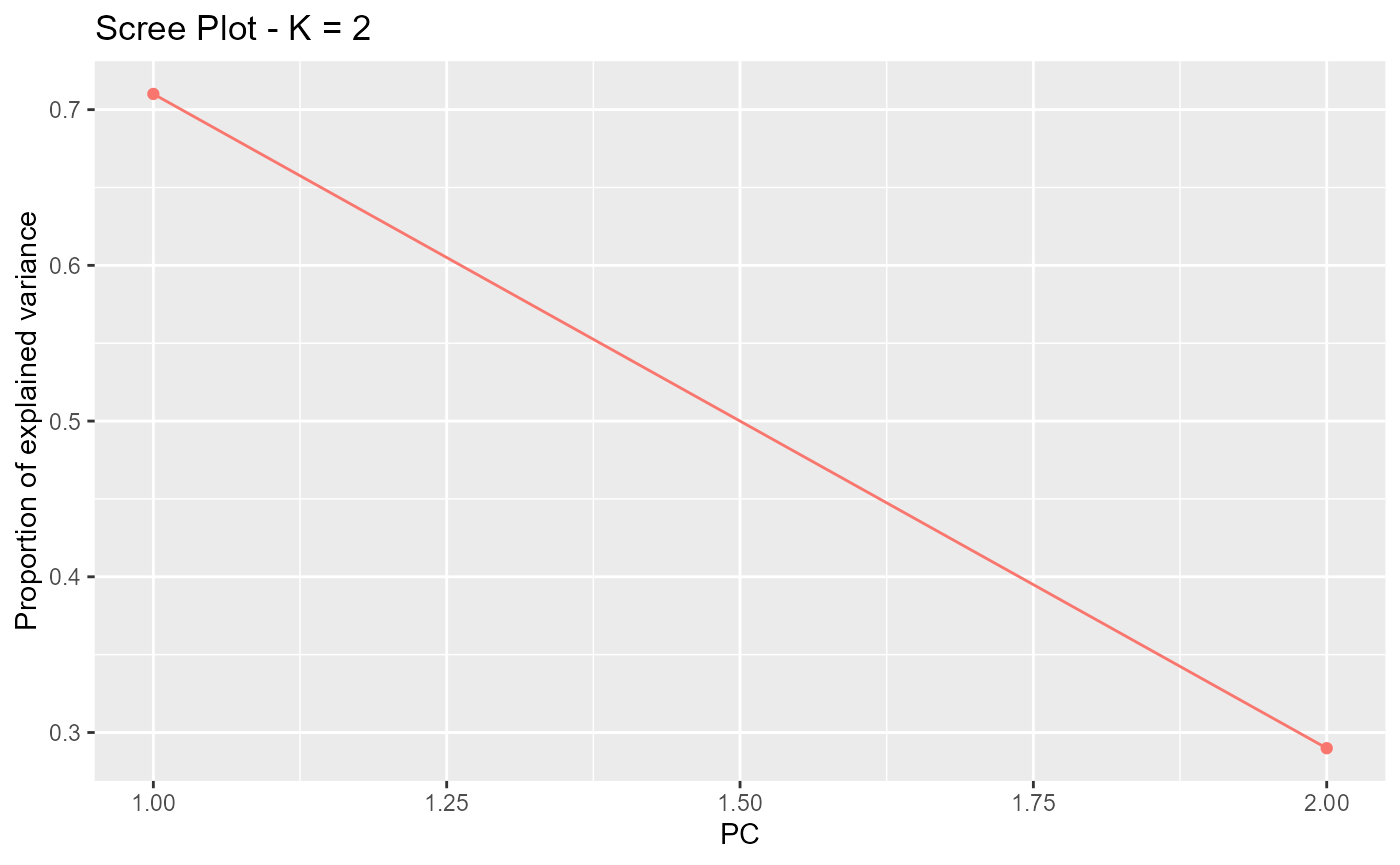
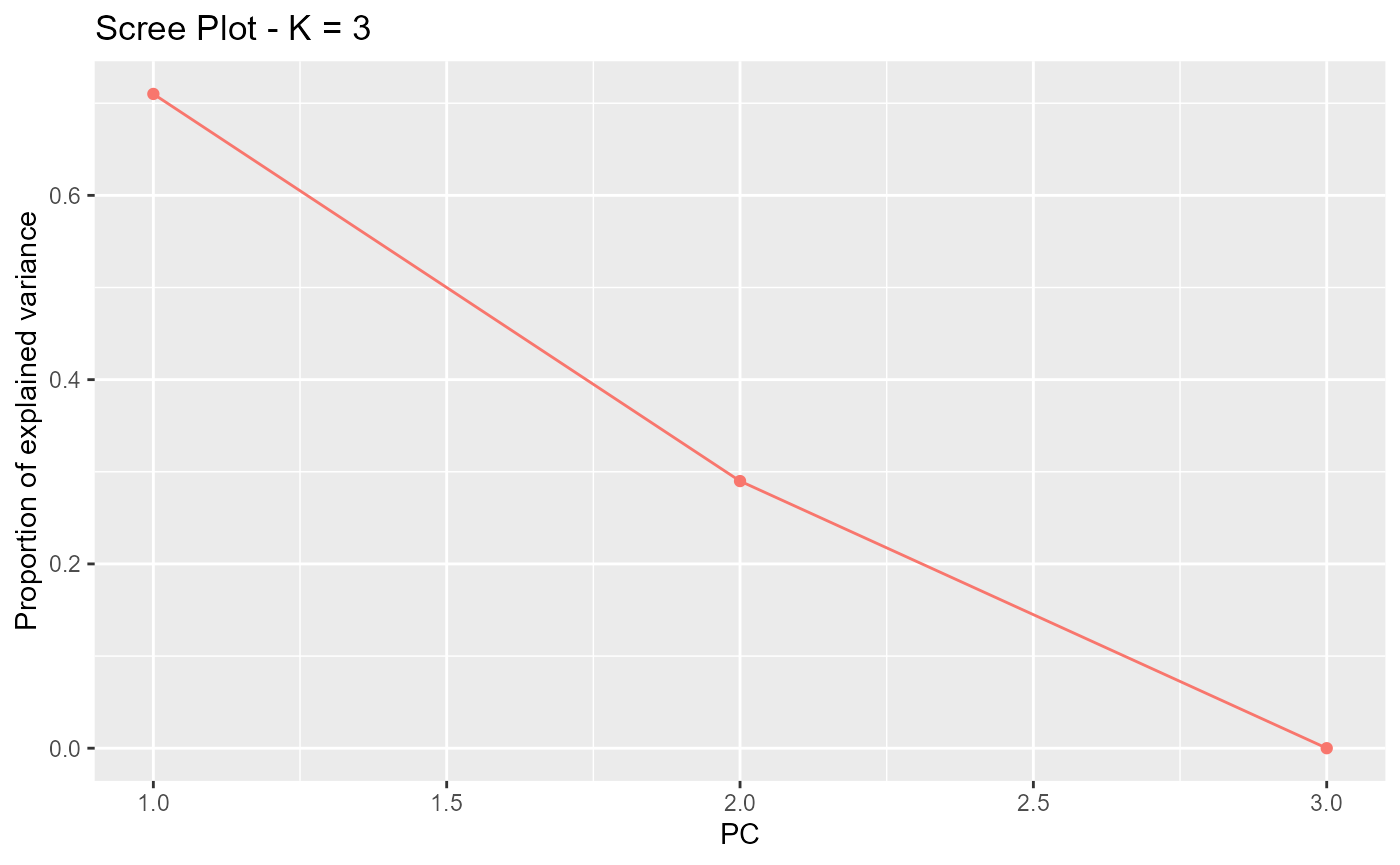
improve tuto close #86

diff --git a/docs/articles/pcadapt.html b/docs/articles/pcadapt.html
@@ -479,27 +479,25 @@ with <code>n</code> rows and <code>L</code> columns (where
 number of genetic markers). Assume your frequency file is called “foo”
 and is located in the directory “path_to_directory”, use the following
 command lines:</p>
-<pre><code><span><span class="va">pool.data</span> <span class="op">&lt;-</span> <span class="fu"><a href="https://rdrr.io/r/utils/read.table.html" class="external-link">read.table</a></span><span class="op">(</span><span class="st">"path_to_directory/foo"</span><span class="op">)</span></span>
-<span><span class="va">filename</span> <span class="op">&lt;-</span> <span class="fu"><a href="../reference/read.pcadapt.html">read.pcadapt</a></span><span class="op">(</span><span class="va">pool.data</span>, type <span class="op">=</span> <span class="st">"pool"</span><span class="op">)</span></span></code></pre>
+<pre><code><span><span class="va">pool.data</span> <span class="op">&lt;-</span> <span class="fu"><a href="../reference/read.pcadapt.html">read.pcadapt</a></span><span class="op">(</span><span class="st">"path_to_directory/foo"</span>, type <span class="op">=</span> <span class="st">"pool"</span><span class="op">)</span></span></code></pre>
+<p>You can also directly input an R matrix to
+<code><a href="../reference/read.pcadapt.html">read.pcadapt()</a></code> if you want.</p>
 <p>A Pool-seq example is provided in the package, and can be loaded as
 follows:</p>
 <div class="sourceCode" id="cb36"><pre class="downlit sourceCode r">
-<code class="sourceCode R"><span><span class="va">pool.data</span> <span class="op">&lt;-</span> <span class="fu"><a href="https://rdrr.io/r/base/system.file.html" class="external-link">system.file</a></span><span class="op">(</span><span class="st">"extdata"</span>, <span class="st">"pool3pops"</span>, package <span class="op">=</span> <span class="st">"pcadapt"</span><span class="op">)</span></span>
-<span><span class="va">filename</span> <span class="op">&lt;-</span> <span class="fu"><a href="../reference/read.pcadapt.html">read.pcadapt</a></span><span class="op">(</span><span class="va">pool.data</span>, type <span class="op">=</span> <span class="st">"pool"</span><span class="op">)</span></span></code></pre></div>
+<code class="sourceCode R"><span><span class="va">path_to_file</span> <span class="op">&lt;-</span> <span class="fu"><a href="https://rdrr.io/r/base/system.file.html" class="external-link">system.file</a></span><span class="op">(</span><span class="st">"extdata"</span>, <span class="st">"pool3pops"</span>, package <span class="op">=</span> <span class="st">"pcadapt"</span><span class="op">)</span></span>
+<span><span class="va">pool.data</span> <span class="op">&lt;-</span> <span class="fu"><a href="../reference/read.pcadapt.html">read.pcadapt</a></span><span class="op">(</span><span class="va">path_to_file</span>, type <span class="op">=</span> <span class="st">"pool"</span><span class="op">)</span></span></code></pre></div>
 <p>With Pool-Seq data, the package computes again a Mahalanobis distance
 based on PCA loadings.</p>
-<p>By default, <code>pcadapt</code> function assumes that <span class="math inline">\(K=n-1\)</span>. Smaller values of <code>K</code>
-can be provided by using argument <code>K</code>. Computation of
-Mahalanobis distances is performed as follows</p>
+<p>Computation of Mahalanobis distances is performed as follows</p>
 <div class="sourceCode" id="cb37"><pre class="downlit sourceCode r">
-<code class="sourceCode R"><span><span class="va">res</span> <span class="op">&lt;-</span> <span class="fu"><a href="../reference/pcadapt.html">pcadapt</a></span><span class="op">(</span><span class="va">filename</span><span class="op">)</span></span>
-<span><span class="co">#The same as res &lt;- pcadapt(filename,K=2)</span></span>
+<code class="sourceCode R"><span><span class="va">res</span> <span class="op">&lt;-</span> <span class="fu"><a href="../reference/pcadapt.html">pcadapt</a></span><span class="op">(</span><span class="va">pool.data</span>, K <span class="op">=</span> <span class="fl">3</span><span class="op">)</span></span>
 <span><span class="fu"><a href="https://rdrr.io/r/base/summary.html" class="external-link">summary</a></span><span class="op">(</span><span class="va">res</span><span class="op">)</span></span></code></pre></div>
 <pre><code><span><span class="co">##                 Length Class  Mode   </span></span>
-<span><span class="co">## scores             6   -none- numeric</span></span>
-<span><span class="co">## singular.values    2   -none- numeric</span></span>
-<span><span class="co">## loadings        3000   -none- numeric</span></span>
-<span><span class="co">## zscores         3000   -none- numeric</span></span>
+<span><span class="co">## scores             9   -none- numeric</span></span>
+<span><span class="co">## singular.values    3   -none- numeric</span></span>
+<span><span class="co">## loadings        4500   -none- numeric</span></span>
+<span><span class="co">## zscores         4500   -none- numeric</span></span>
 <span><span class="co">## af              1500   -none- numeric</span></span>
 <span><span class="co">## maf             1500   -none- numeric</span></span>
 <span><span class="co">## chi2.stat       1500   -none- numeric</span></span>
@@ -515,7 +513,7 @@ small, it is impossible to use the scree plot to choose <code>K</code>
 and the default value of <span class="math inline">\(K=n-1\)</span>
 should be used.</p>
 <div class="sourceCode" id="cb39"><pre class="downlit sourceCode r">
-<code class="sourceCode R"><span><span class="fu"><a href="https://rdrr.io/r/graphics/plot.default.html" class="external-link">plot</a></span><span class="op">(</span><span class="va">res</span>,option<span class="op">=</span><span class="st">"screeplot"</span><span class="op">)</span></span></code></pre></div>
+<code class="sourceCode R"><span><span class="fu"><a href="https://rdrr.io/r/graphics/plot.default.html" class="external-link">plot</a></span><span class="op">(</span><span class="va">res</span>, option <span class="op">=</span> <span class="st">"screeplot"</span><span class="op">)</span></span></code></pre></div>
 <p><img src="pcadapt_files/figure-html/unnamed-chunk-25-1.png" width="700"></p>
 <p>A Manhattan plot can be displayed.</p>
 <div class="sourceCode" id="cb40"><pre class="downlit sourceCode r">
@@ -528,13 +526,13 @@ data</p>
 <span><span class="va">alpha</span> <span class="op">&lt;-</span> <span class="fl">0.1</span></span>
 <span><span class="va">outliers</span> <span class="op">&lt;-</span> <span class="fu"><a href="https://rdrr.io/r/base/which.html" class="external-link">which</a></span><span class="op">(</span><span class="va">padj</span> <span class="op">&lt;</span> <span class="va">alpha</span><span class="op">)</span></span>
 <span><span class="fu"><a href="https://rdrr.io/r/base/length.html" class="external-link">length</a></span><span class="op">(</span><span class="va">outliers</span><span class="op">)</span></span></code></pre></div>
-<pre><code><span><span class="co">## [1] 126</span></span></code></pre>
+<pre><code><span><span class="co">## [1] 119</span></span></code></pre>
 <p>The function <code>get.pc</code>is also available for pooled-seq data
 (see H.3).</p>
 <div class="sourceCode" id="cb43"><pre class="downlit sourceCode r">
 <code class="sourceCode R"><span><span class="fu"><a href="../reference/get.pc.html">get.pc</a></span><span class="op">(</span><span class="va">res</span>,<span class="fl">1</span><span class="op">:</span><span class="fl">150</span><span class="op">)</span><span class="op">-&gt;</span><span class="va">aux</span></span>
 <span><span class="fu"><a href="https://rdrr.io/r/base/print.html" class="external-link">print</a></span><span class="op">(</span><span class="va">aux</span><span class="op">[</span>,<span class="fl">2</span><span class="op">]</span><span class="op">)</span></span></code></pre></div>
-<pre><code><span><span class="co">##   [1] 1 1 1 1 1 1 1 1 1 1 1 1 1 1 1 1 1 1 1 1 1 1 1 1 1 1 1 1 1 1 1 1 1 1 1 1 1</span></span>
+<pre><code><span><span class="co">##   [1] 3 3 1 1 1 1 1 1 1 1 1 1 1 1 1 1 1 1 1 1 1 1 1 1 1 1 1 1 1 1 1 1 1 1 1 1 1</span></span>
 <span><span class="co">##  [38] 1 1 1 1 1 1 1 1 1 1 1 1 1 1 1 1 1 1 1 1 1 1 1 1 1 1 1 1 1 1 1 1 1 1 1 1 1</span></span>
 <span><span class="co">##  [75] 1 2 2 2 2 2 2 2 2 2 2 2 1 1 2 1 2 1 2 2 2 1 1 2 2 2 2 2 2 2 2 2 2 2 2 2 2</span></span>
 <span><span class="co">## [112] 2 2 2 1 2 2 2 2 2 2 2 1 2 2 2 2 1 2 1 2 2 2 2 2 2 2 2 2 1 2 2 2 2 2 2 2 1</span></span>
